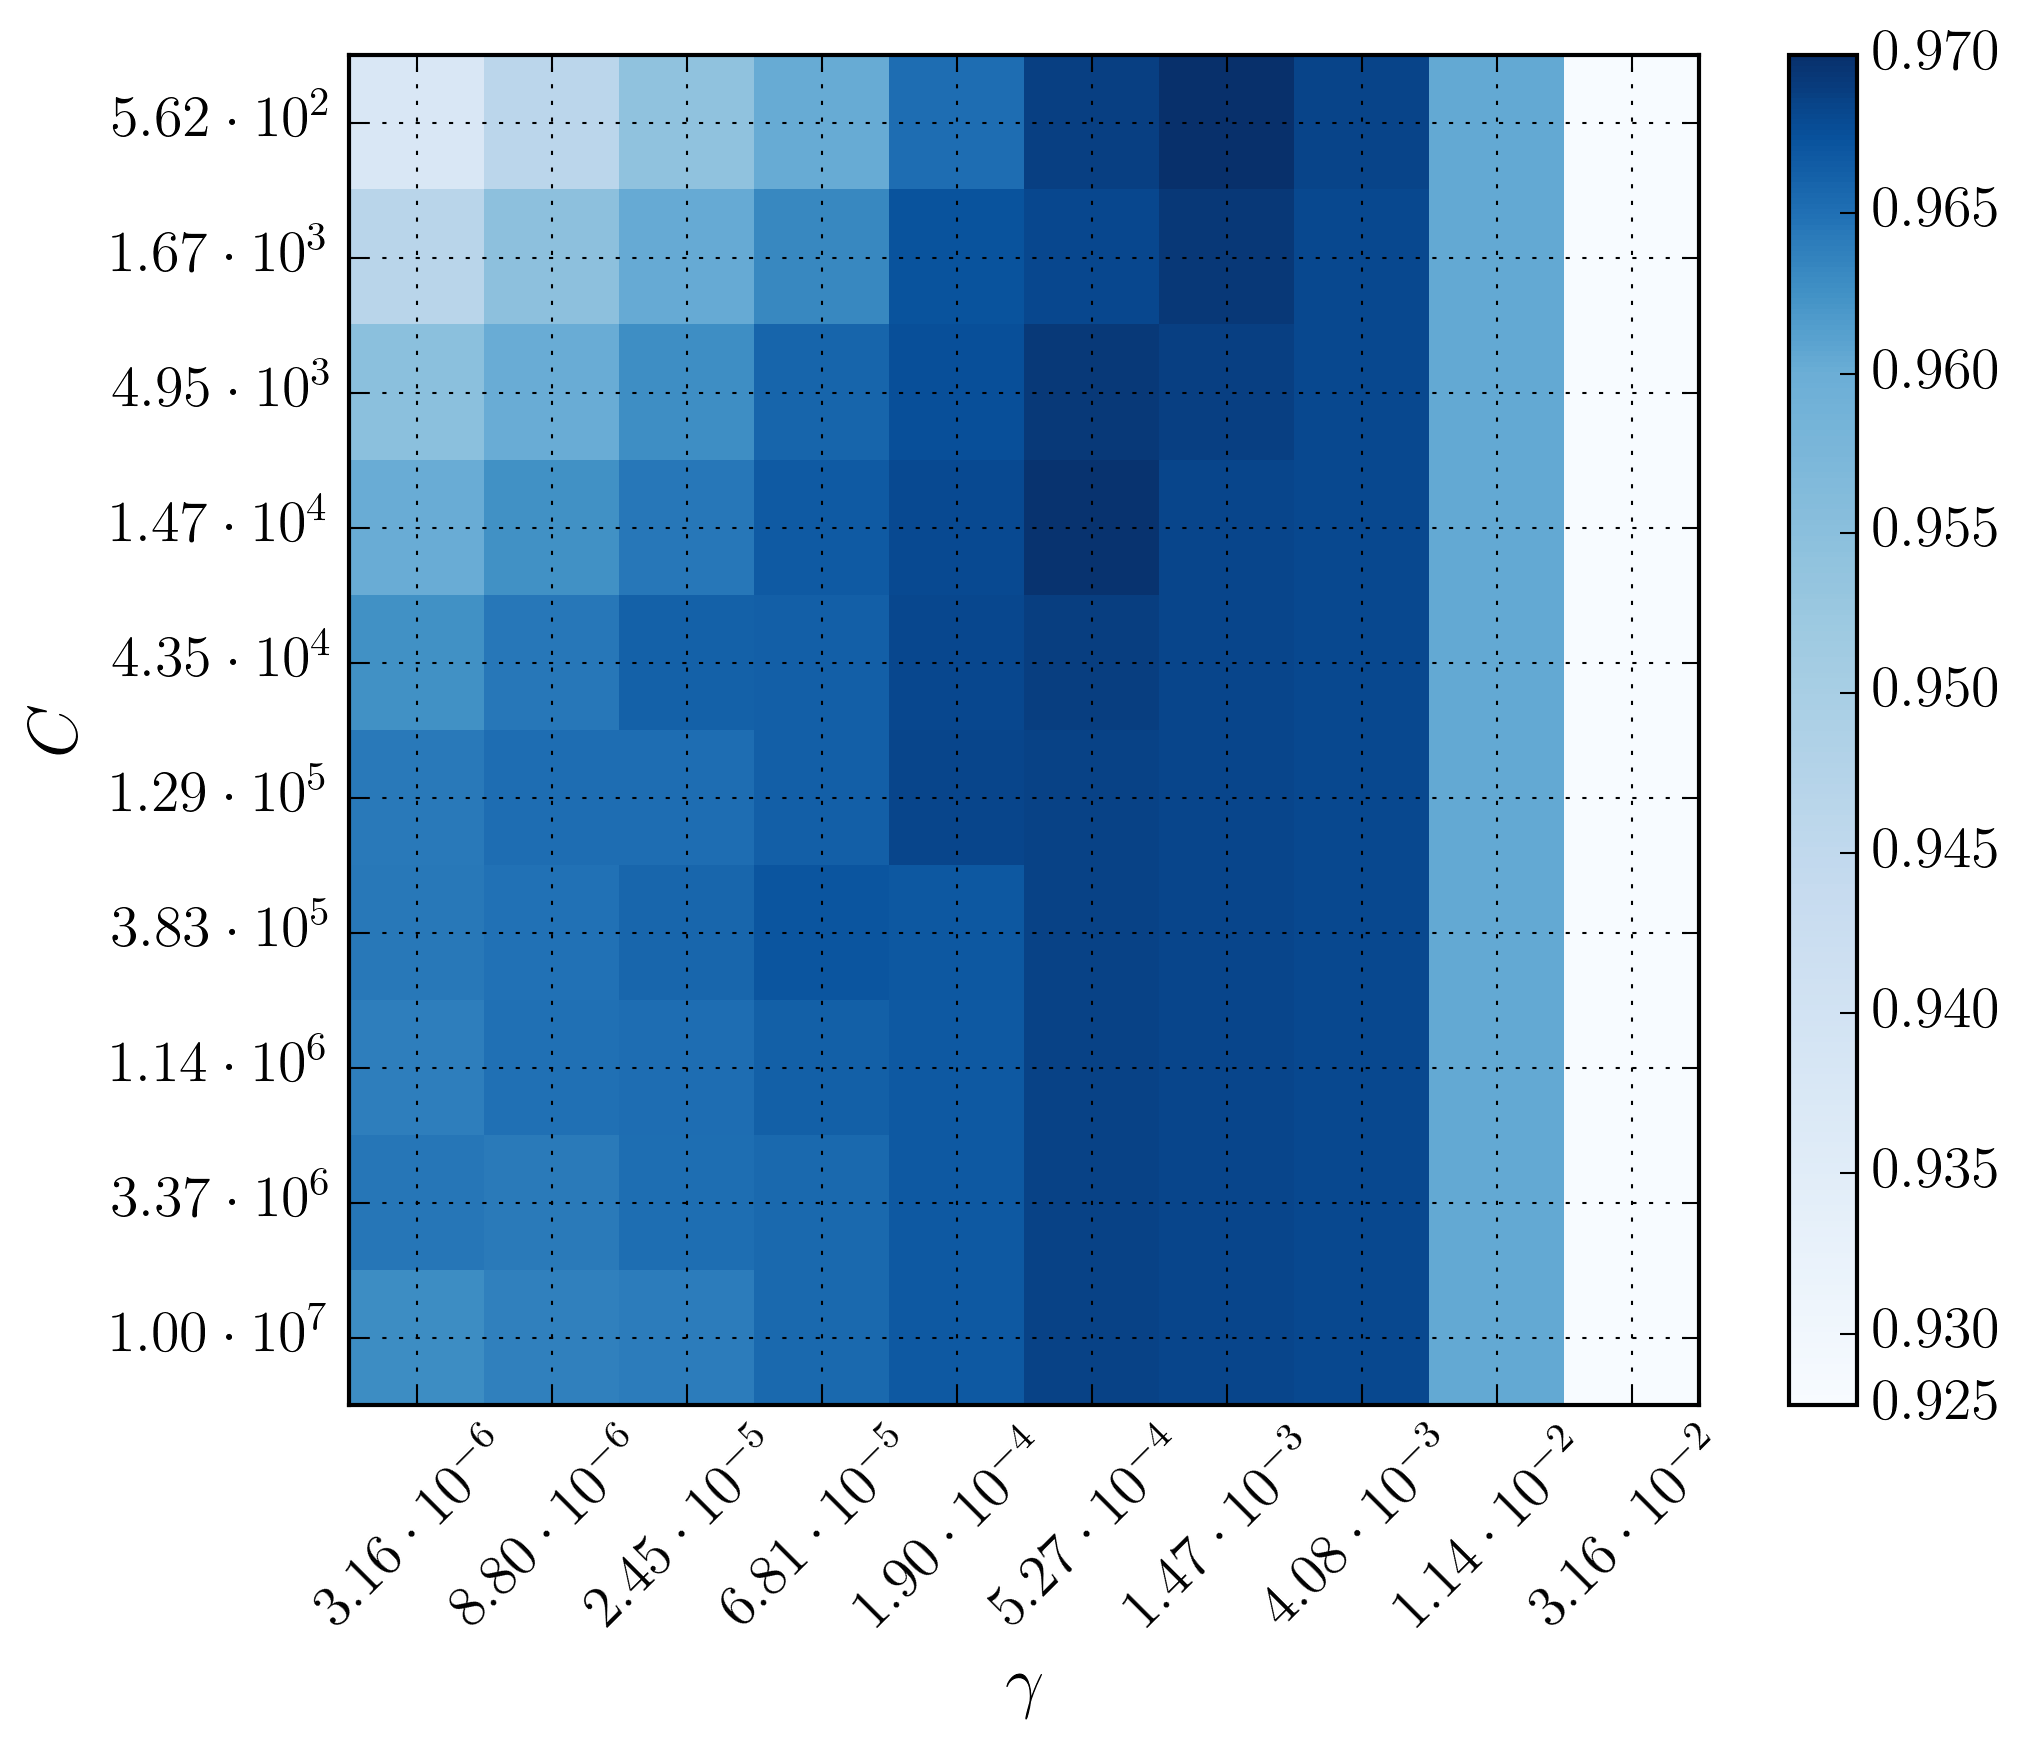
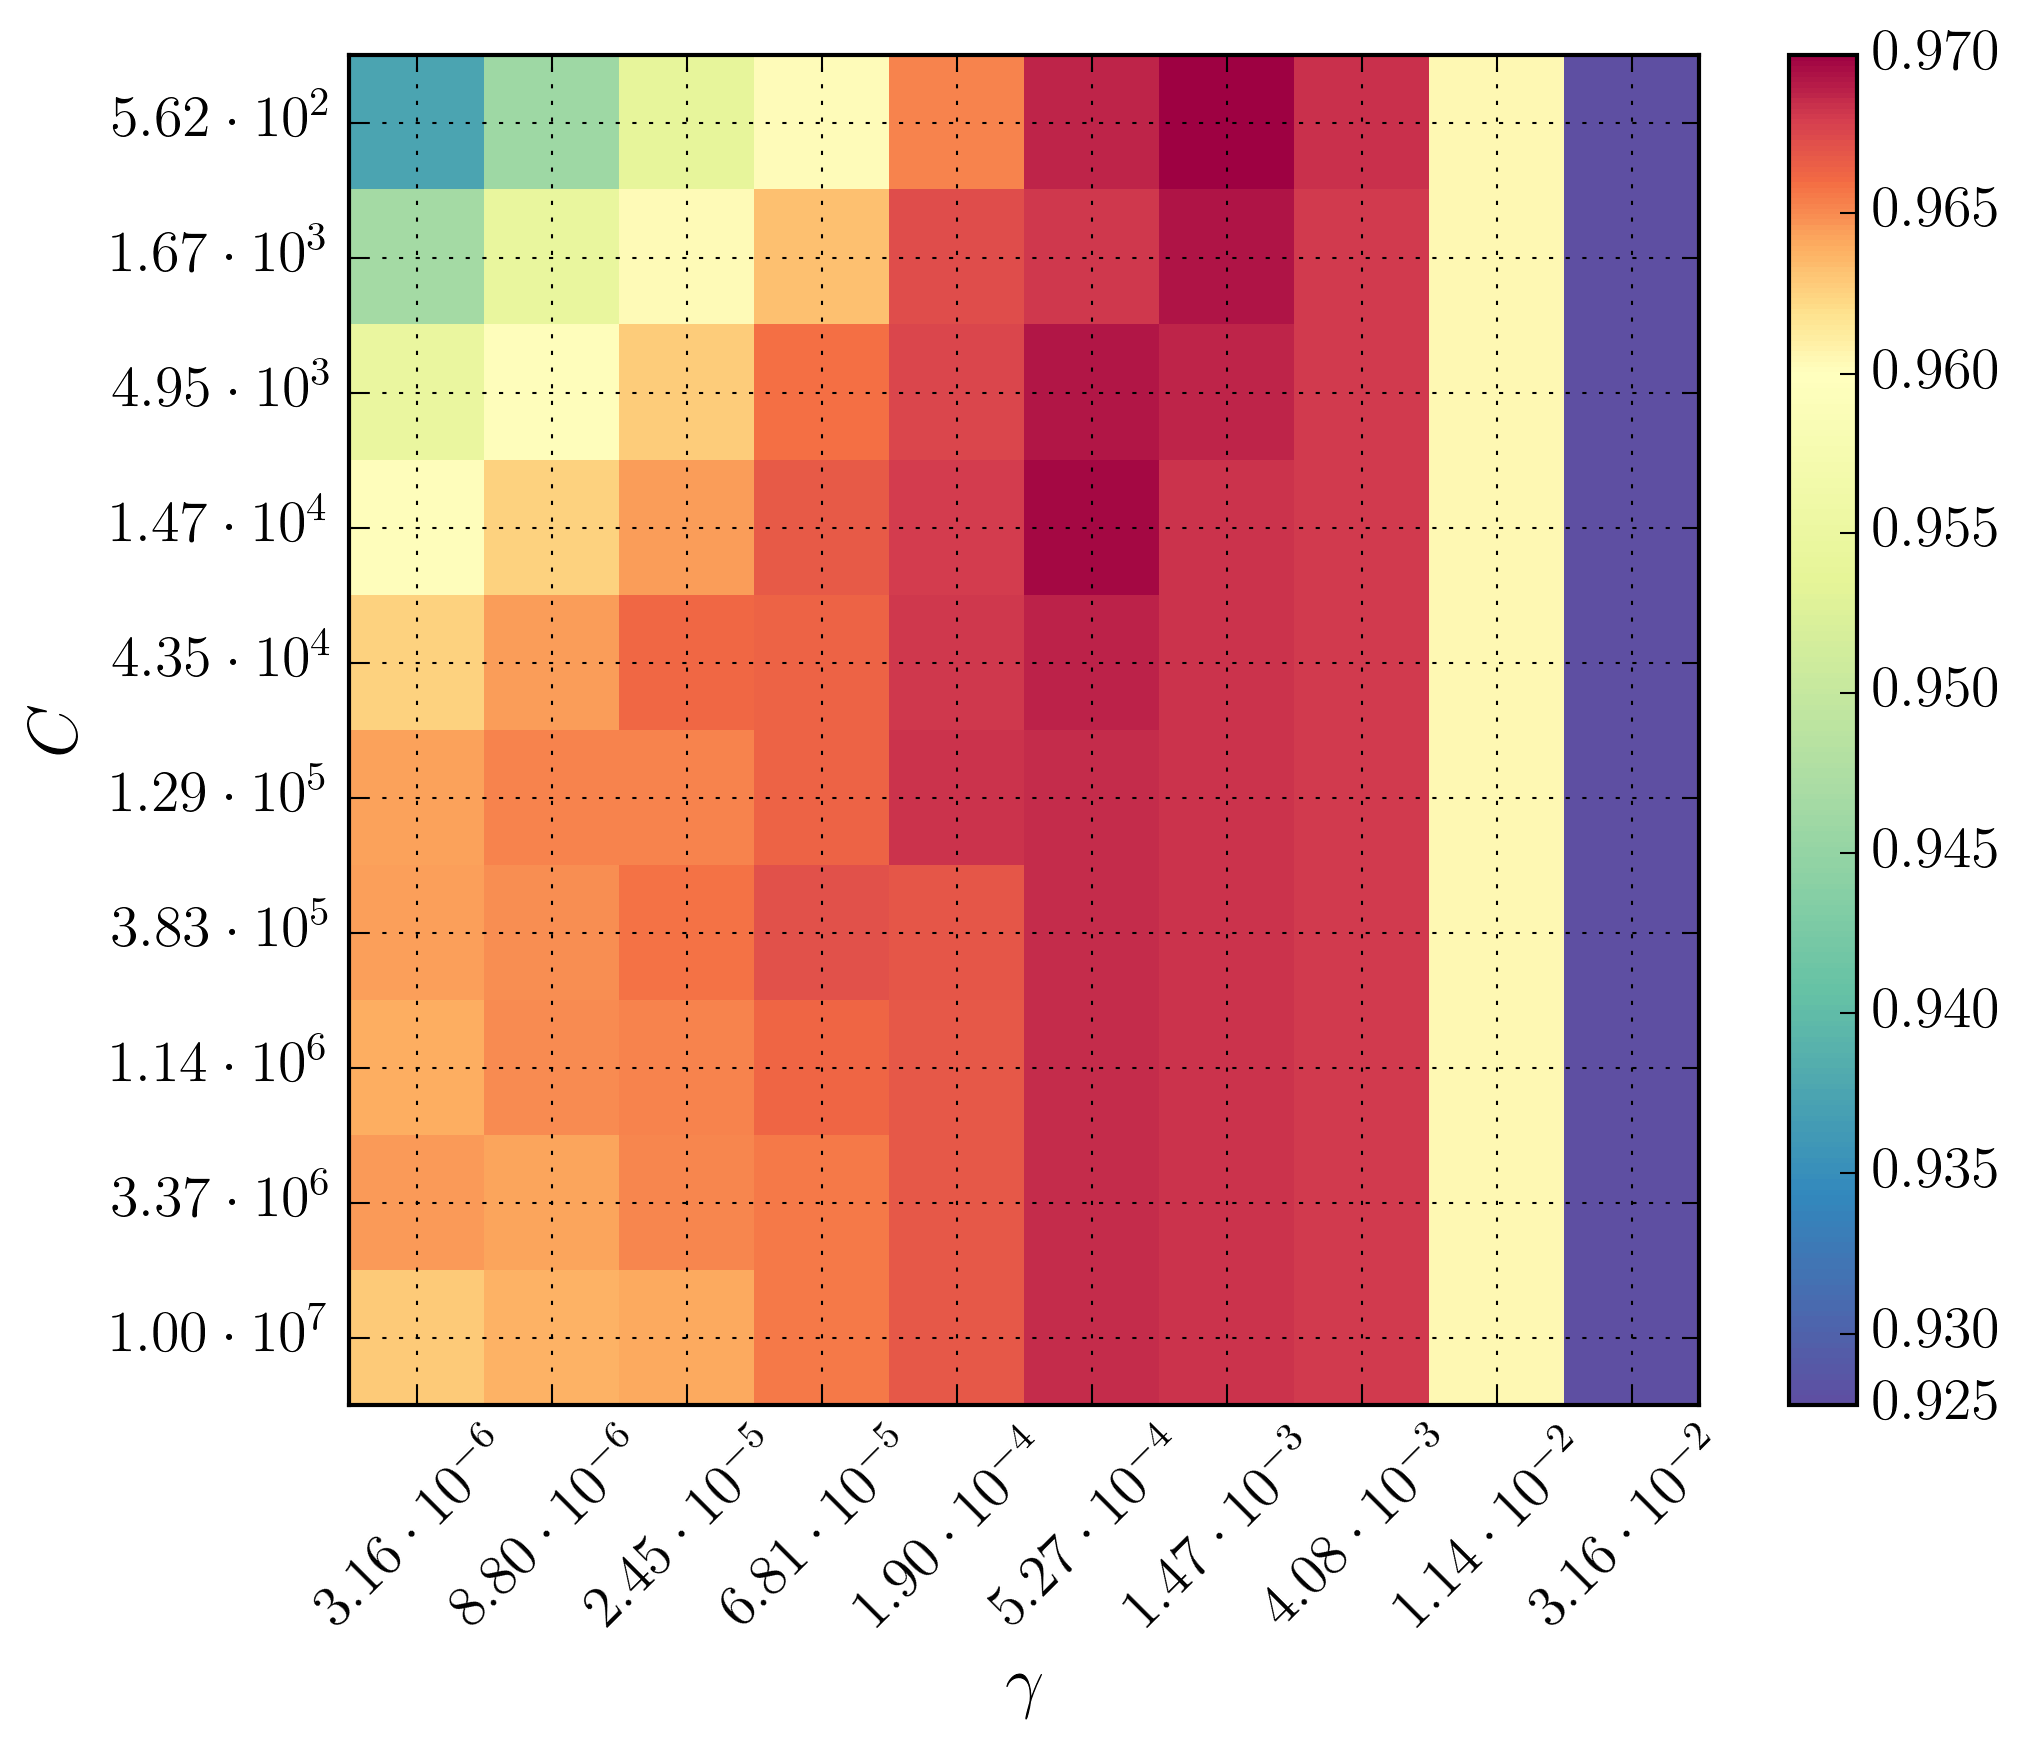
Update figures for SVM superclass grid search

diff --git a/figures/gridsearch/svm/superclasses/gridsearch-heatmap.py b/figures/gridsearch/svm/superclasses/gridsearch-heatmap.py
@@ -51,7 +51,7 @@ scores = [a[1] for a in grid.grid_scores_]
 scores = np.array(scores).reshape(len(y), len(x))
 
 number2latex = lambda string: '$' + string.split('e')[0] + '\cdot 10^{' + str(int(string.split('e')[1])) + '}$'
-colormap = plt.cm.Blues
+colormap = plt.cm.Spectral_r
 
 plt.figure(figsize = (8, 6))
 plt.subplots_adjust(left = 0.2, right = 0.95, bottom = 0.2, top = 0.95)
